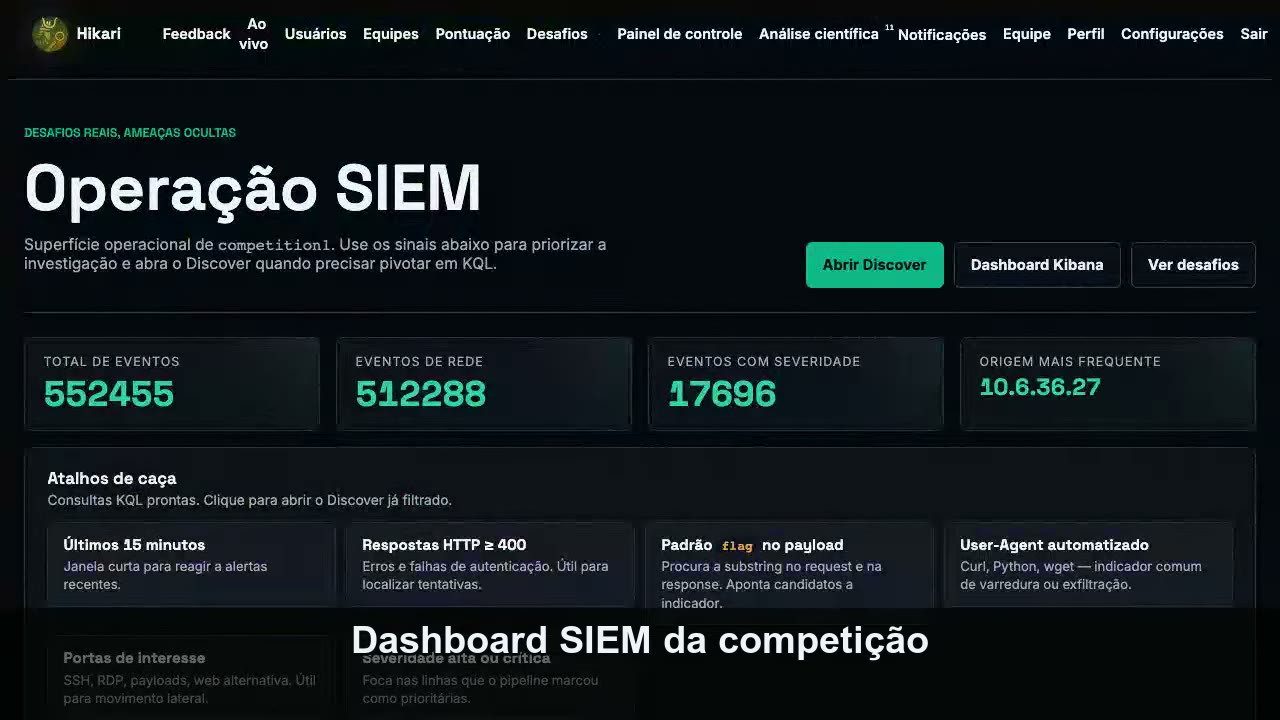
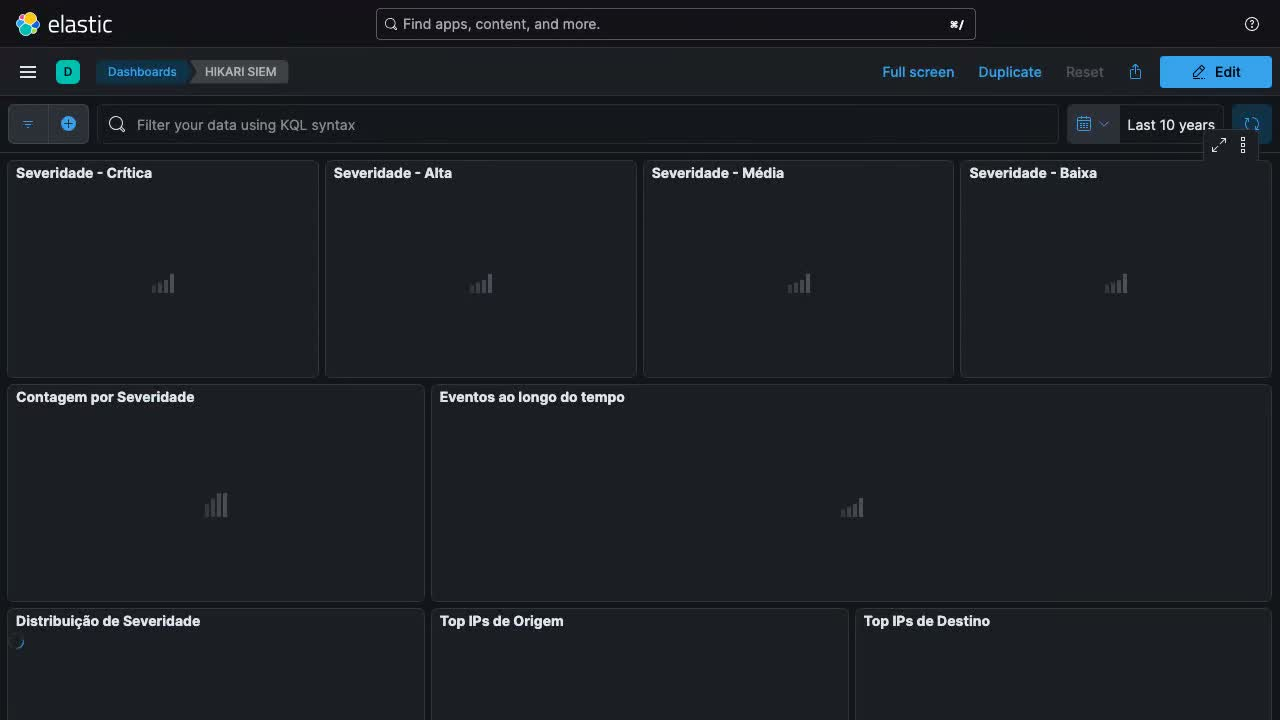
site: validate siem and research demo videos

diff --git a/index.html b/index.html
@@ -542,16 +542,17 @@
             <track kind="captions" src="assets/demos/captions/siem.vtt" srclang="pt-BR" label="Português">
           </video>
           <h3>SIEM</h3>
-          <p>Dashboard do Kibana com painéis e atalhos de caça para threat hunting.</p>
-          <div class="demo-meta">Roteiro: 60 segundos</div>
+          <p>Atalhos de caça, dashboard Kibana, pivôs de rede e retorno ao desafio.</p>
+          <div class="demo-meta">Roteiro validado: 60 segundos</div>
           <ul class="demo-steps">
-            <li><time>0:00</time><span>Abrir o Kibana pelo gateway autenticado.</span></li>
-            <li><time>0:10</time><span>Ler severidade, tempo, IPs, portas e mensagens.</span></li>
-            <li><time>0:22</time><span>Aplicar atalhos KQL para reduzir ruído.</span></li>
-            <li><time>0:36</time><span>Refinar a consulta com intervalo de tempo.</span></li>
-            <li><time>0:48</time><span>Usar a evidência encontrada para responder ao desafio.</span></li>
+            <li><time>0:00</time><span>Ver a superfície SIEM com métricas da competição.</span></li>
+            <li><time>0:07</time><span>Usar atalhos KQL para priorizar hipóteses.</span></li>
+            <li><time>0:16</time><span>Abrir o dashboard Kibana pelo gateway autenticado.</span></li>
+            <li><time>0:29</time><span>Comparar severidade, tempo, IPs, portas e detecções.</span></li>
+            <li><time>0:44</time><span>Revisar eventos recentes no resumo Hikari.</span></li>
+            <li><time>0:52</time><span>Voltar ao desafio para registrar a resposta.</span></li>
           </ul>
-          <div class="demo-proof">Prova exibida: o dashboard responde aos dados indexados e orienta a investigação.</div>
+          <div class="demo-proof">Prova exibida: os painéis carregam dados reais do Elasticsearch e mantêm o caminho de volta ao CTFd.</div>
         </article>
         <article class="demo-card">
           <video controls preload="none" poster="assets/demos/posters/pesquisa.jpg">
@@ -559,19 +560,20 @@
             <track kind="captions" src="assets/demos/captions/pesquisa.vtt" srclang="pt-BR" label="Português">
           </video>
           <h3>Análise científica</h3>
-          <p>Placar ao vivo, métricas de atividade e exportação dos dados de pesquisa.</p>
-          <div class="demo-meta">Roteiro: 60 segundos</div>
+          <p>Placar ao vivo, filtros de atividade, panorama de feedback e exportação JSONL.</p>
+          <div class="demo-meta">Roteiro validado: 60 segundos</div>
           <ul class="demo-steps">
-            <li><time>0:00</time><span>Acompanhar placar ao vivo e solves recentes.</span></li>
-            <li><time>0:12</time><span>Ver interações do CTFd e consultas no Kibana.</span></li>
-            <li><time>0:24</time><span>Medir cobertura do feedback por competição.</span></li>
-            <li><time>0:38</time><span>Filtrar por evento, usuário ou equipe.</span></li>
-            <li><time>0:50</time><span>Exportar JSONL para auditoria e análise posterior.</span></li>
+            <li><time>0:00</time><span>Acompanhar ranking, solves e evolução em tempo real.</span></li>
+            <li><time>0:16</time><span>Abrir a análise científica protegida por conta administrativa.</span></li>
+            <li><time>0:27</time><span>Filtrar atividades por tipo de evento.</span></li>
+            <li><time>0:36</time><span>Ver cobertura, pendências e métricas de feedback.</span></li>
+            <li><time>0:49</time><span>Consultar status por equipe e resumo numérico.</span></li>
+            <li><time>0:56</time><span>Exportar JSONL para auditoria e análise posterior.</span></li>
           </ul>
-          <div class="demo-proof">Prova exibida: administradores veem cobertura do feedback e exportam dados por competição.</div>
+          <div class="demo-proof">Prova exibida: administradores filtram telemetria, acompanham feedback e exportam os dados auditáveis.</div>
         </article>
       </div>
-      <p class="figcap">Trilha dos vídeos: Demo 1 usa <em>A Just Ronin</em>, Solas Composer, Creative Commons BY-SA 3.0. Demos legadas usam <em>Ronin</em>, Yoitrax, Creative Commons BY 3.0. Fontes via BreakingCopyright.</p>
+      <p class="figcap">Trilha dos vídeos: Demo 1 usa <em>A Just Ronin</em>, Solas Composer, Creative Commons BY-SA 3.0. Demos 2 e 3 usam <em>Ronin</em>, Yoitrax, Creative Commons BY 3.0. Fontes via BreakingCopyright.</p>
     </div>
   </section>
 